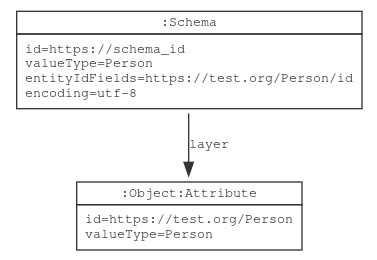
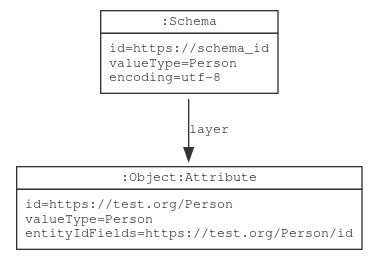
Fix doc about entityIdFields

Changed region(s): [[0.0292, 0.0308, 0.9629, 0.4308], [0.0292, 0.4923, 0.9629, 0.9846]]

diff --git a/web/content/docs/model_and_syntax.md b/web/content/docs/model_and_syntax.md
@@ -56,12 +56,6 @@ a *label* that represents the relationship between the nodes, and
   layer root node defines a `Person` object (`valueType`), and the
   type id is `https://test.org/Person` (layer root node `id`).
 
-`https://lschema.org/entityIdFields`
-: Optional annotation that specifies the unique identifier(s)
-attribute ids for the entity. Contents of this property can be a
-string value, or string array. `entityIdFields` can only be specified
-for a schema. An overlay cannot override id fields.
-
 `https://lschema.org/encoding`
 : Optional annotation that specifies the data encoding. If specified, data
   processed using this schema will be read using the defined encoding.
@@ -74,7 +68,13 @@ for a schema. An overlay cannot override id fields.
   annotation is optional for overlays. If `valueType` is specified for
   an overlay, it can only be composed with a schema that has the same
   `valueType`.
-  
+
+`https://lschema.org/entityIdFields`
+: Optional annotation that specifies the unique identifier(s)
+attribute ids for the entity. Contents of this property can be a
+string value, or string array. Note that this is given under `layer`.
+
+
 The JSON-LD representation for a schema is as follows:
 
 {{< highlight json >}}
@@ -83,11 +83,11 @@ The JSON-LD representation for a schema is as follows:
   "@type": "Schema",
   "@id": "https://schema_id",
   "valueType": "Person",
-  "entityIdFields": "https://test.org/Person/id",
   "encoding": "utf-8",
   "layer": {
     "@type": "Object",
     "@id": "https://test.org/Person",
+    "entityIdFields": "https://test.org/Person/id",
     "attributes": {
     ...
     }
